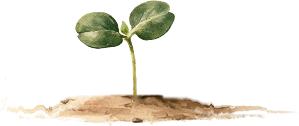
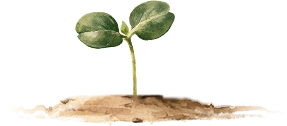
deck v9 (R-D28): example portfolio on every app screen ($420.69 earned), the opportunity's earlier line back, smaller sprout, planting explained, orchid stages centred, team pfp + x.com/donlucas + Thank you

diff --git a/api/src/app/deck/page.tsx b/api/src/app/deck/page.tsx
@@ -72,8 +72,10 @@ const CSS = `
 .deck .phone { position:absolute; left:calc(var(--u)*61); top:calc(var(--u)*6); width:calc(var(--u)*29); height:calc(var(--u)*50.25); overflow:hidden; box-sizing:border-box; border-bottom-left-radius:0; border-bottom-right-radius:0; padding:calc(var(--u)*.9) calc(var(--u)*.9) 0;
   background:#1D2628; border-radius:calc(var(--u)*4.4) calc(var(--u)*4.4) 0 0; box-shadow:0 calc(var(--u)*1.5) calc(var(--u)*5) rgba(43,38,34,.22); }
 .deck .phone img { display:block; width:100%; height:auto; border-radius:calc(var(--u)*3.6); }
-.deck .sprout { position:absolute; right:calc(var(--u)*9); bottom:calc(var(--u)*6); height:calc(var(--u)*19); width:auto; }
-.deck .beat .stage { height:calc(var(--u)*11); width:auto; justify-self:start; margin-bottom:calc(var(--u)*.4); }
+.deck .sprout { position:absolute; right:calc(var(--u)*8); bottom:calc(var(--u)*2.6); height:calc(var(--u)*10); width:auto; }
+.deck .note.left { max-width:calc(var(--u)*62); }
+.deck .beats.center .beat { text-align:center; justify-items:center; }
+.deck .beat .stage { height:calc(var(--u)*12); width:auto; margin-bottom:calc(var(--u)*.4); }
 .deck .narrow { max-width:calc(var(--u)*62); }
 .deck .stack { display:grid; gap:calc(var(--u)*1.8); max-width:calc(var(--u)*44); }
 .deck .stack div { display:grid; gap:calc(var(--u)*.4); }
@@ -89,6 +91,12 @@ const CSS = `
 .deck .in > .grow { position:relative; z-index:1; }
 .deck .tree { position:absolute; right:calc(var(--u)*-11); bottom:calc(var(--u)*-9); width:calc(var(--u)*35); height:auto; pointer-events:none; }
 .deck .flow.short { max-width:calc(var(--u)*68); }
+.deck .who { display:flex; align-items:center; gap:calc(var(--u)*2.4); }
+.deck .pfp { width:calc(var(--u)*9); height:calc(var(--u)*9); border-radius:calc(var(--u)*1.4); image-rendering:pixelated; flex:none; }
+.deck .thanks { position:absolute; right:calc(var(--u)*6.6); bottom:calc(var(--u)*4.4); font-family:var(--font-display), sans-serif; font-weight:700;
+  letter-spacing:-.035em; font-size:calc(var(--u)*5.6); color:var(--leaf); margin:0; }
+.deck .links a { color:inherit; text-decoration:none; }
+.deck .on-art .links { max-width:calc(var(--u)*56); }
 .deck .todo { background:#FFF1B8; color:#5C4A00; border-radius:4px; padding:0 .3em; }
 .deck .bar { position:fixed; right:16px; bottom:16px; display:flex; gap:8px; z-index:2; }
 .deck .bar a, .deck .bar button { font:600 13px var(--font-body), sans-serif; background:var(--ink); color:var(--paper); border:0; border-radius:999px; padding:9px 14px; cursor:pointer; text-decoration:none; }
@@ -106,7 +114,7 @@ const CSS = `
   .deck .stat strong { font-size:34px; }
   .deck .num { right:16px; bottom:20px; font-size:12px; } .deck .note, .deck .addr { font-size:12px; }
   .deck .phone { position:relative; left:auto; top:auto; width:100%; height:70vh; overflow:hidden; }
-  .deck .sprout, .deck .tree { display:none; } .deck .flow.short { max-width:none; } .deck .photo { position:relative; width:100%; height:auto; }
+  .deck .sprout, .deck .tree { display:none; } .deck .thanks { position:static; font-size:36px; } .deck .flow.short { max-width:none; } .deck .photo { position:relative; width:100%; height:auto; }
   .deck .sand { width:100%; } .deck .stack, .deck .narrow, .deck .hero { max-width:none; }
   .deck .brand { font-size:22px; } .deck .brand img { width:30px; } .deck .foot, .deck .links { font-size:15px; }
 }
@@ -157,9 +165,12 @@ export default function Deck() {
       <Slide n={2} chip="The opportunity">
         <div className="grow">
           <h2 style={{ maxWidth: "calc(var(--u)*62)" }}>Traders rarely set money aside. Their swaps can do it for them.</h2>
-          <p className="sub" style={{ maxWidth: "calc(var(--u)*48)" }}>Every swap already moves money. Each one can set a little change aside.</p>
+          <p className="sub">
+            Everything sits in the hot wallet they swap from every day, and nobody stops mid-trade to save. Every swap is already a
+            moment money moves, so each one can set a little change aside.
+          </p>
         </div>
-        <p className="note">Seeker owners who stake SKR swap a median of 23 times a month, mostly under $10 (on-chain sample of 163 recently active stakers, Sept 2026).</p>
+        <p className="note left">Seeker owners who stake SKR swap a median of 23 times a month, mostly under $10 (on-chain sample of 163 recently active stakers, Sept 2026).</p>
         <img className="sprout" src="/deck/sprout.png" alt="A first sprout, from the app's loading screen" />
       </Slide>
 
@@ -167,7 +178,7 @@ export default function Deck() {
       <Slide n={3} chip="How it works">
         <div className="grow">
           <h2 className="h2s">Every swap rounds up. Your Seeker keeps the change.</h2>
-          <div className="beats">
+          <div className="beats center">
             <div className="beat">
               <img className="stage" src="/deck/grow-1.png" alt="" />
               <strong>Any swap, any app</strong>
@@ -176,7 +187,7 @@ export default function Deck() {
             <div className="beat">
               <img className="stage" src="/deck/grow-2.png" alt="" />
               <strong>Planted each morning</strong>
-              <span>Past $2, your change is planted at 7&nbsp;AM. Up to $5 a day, no decisions.</span>
+              <span>Planting is when Sprouts buys your coins with the change: each morning at 7&nbsp;AM, once $2 has saved up. Up to $5 a day.</span>
             </div>
             <div className="beat">
               <img className="stage" src="/deck/grow-3.png" alt="" />
@@ -299,10 +310,13 @@ export default function Deck() {
         </div>
       </Slide>
 
-      {/* 10 Team + links; R-D19 live line */}
-      <Slide n={10} chip="Team">
+      {/* 10 Team + links; R-D19 live line; R-D28 his Validators pfp #14, x.com/donlucas, a Thank you opposite the title */}
+      <Slide n={10} chip="Team" art>
         <div className="grow">
-          <h2>Built by donlucas.</h2>
+          <div className="who">
+            <img className="pfp" src="/deck/pfp.png" alt="donlucas: Validators #14" />
+            <h2>Built by donlucas.</h2>
+          </div>
           <p className="sub">
             On Solana since 2021. Founded Validators on Eclipse and, with his team, built some of the chain&apos;s first NFT
             infrastructure, still live today; their blip won Eclipse&apos;s hackathon infrastructure track. Also ships xscapes, an
@@ -311,11 +325,13 @@ export default function Deck() {
           <p className="sub">Built with Claude Code: the app, the API and the on-chain leash.</p>
           <p className="sub"><b>Live on Solana mainnet. In review on the Solana dApp Store.</b></p>
           <div className="links">
-            <span>sprouts.money</span>
-            <span>@sproutsonseeker</span>
-            <span>github.com/donlucasx/sprouts</span>
+            <a href="https://sprouts.money">sprouts.money</a>
+            <a href="https://x.com/sproutsonseeker">@sproutsonseeker</a>
+            <a href="https://x.com/donlucas">x.com/donlucas</a>
+            <a href="https://github.com/donlucasx/sprouts">github.com/donlucasx/sprouts</a>
           </div>
         </div>
+        <p className="thanks">Thank you.</p>
       </Slide>
 
       <div className="bar">
